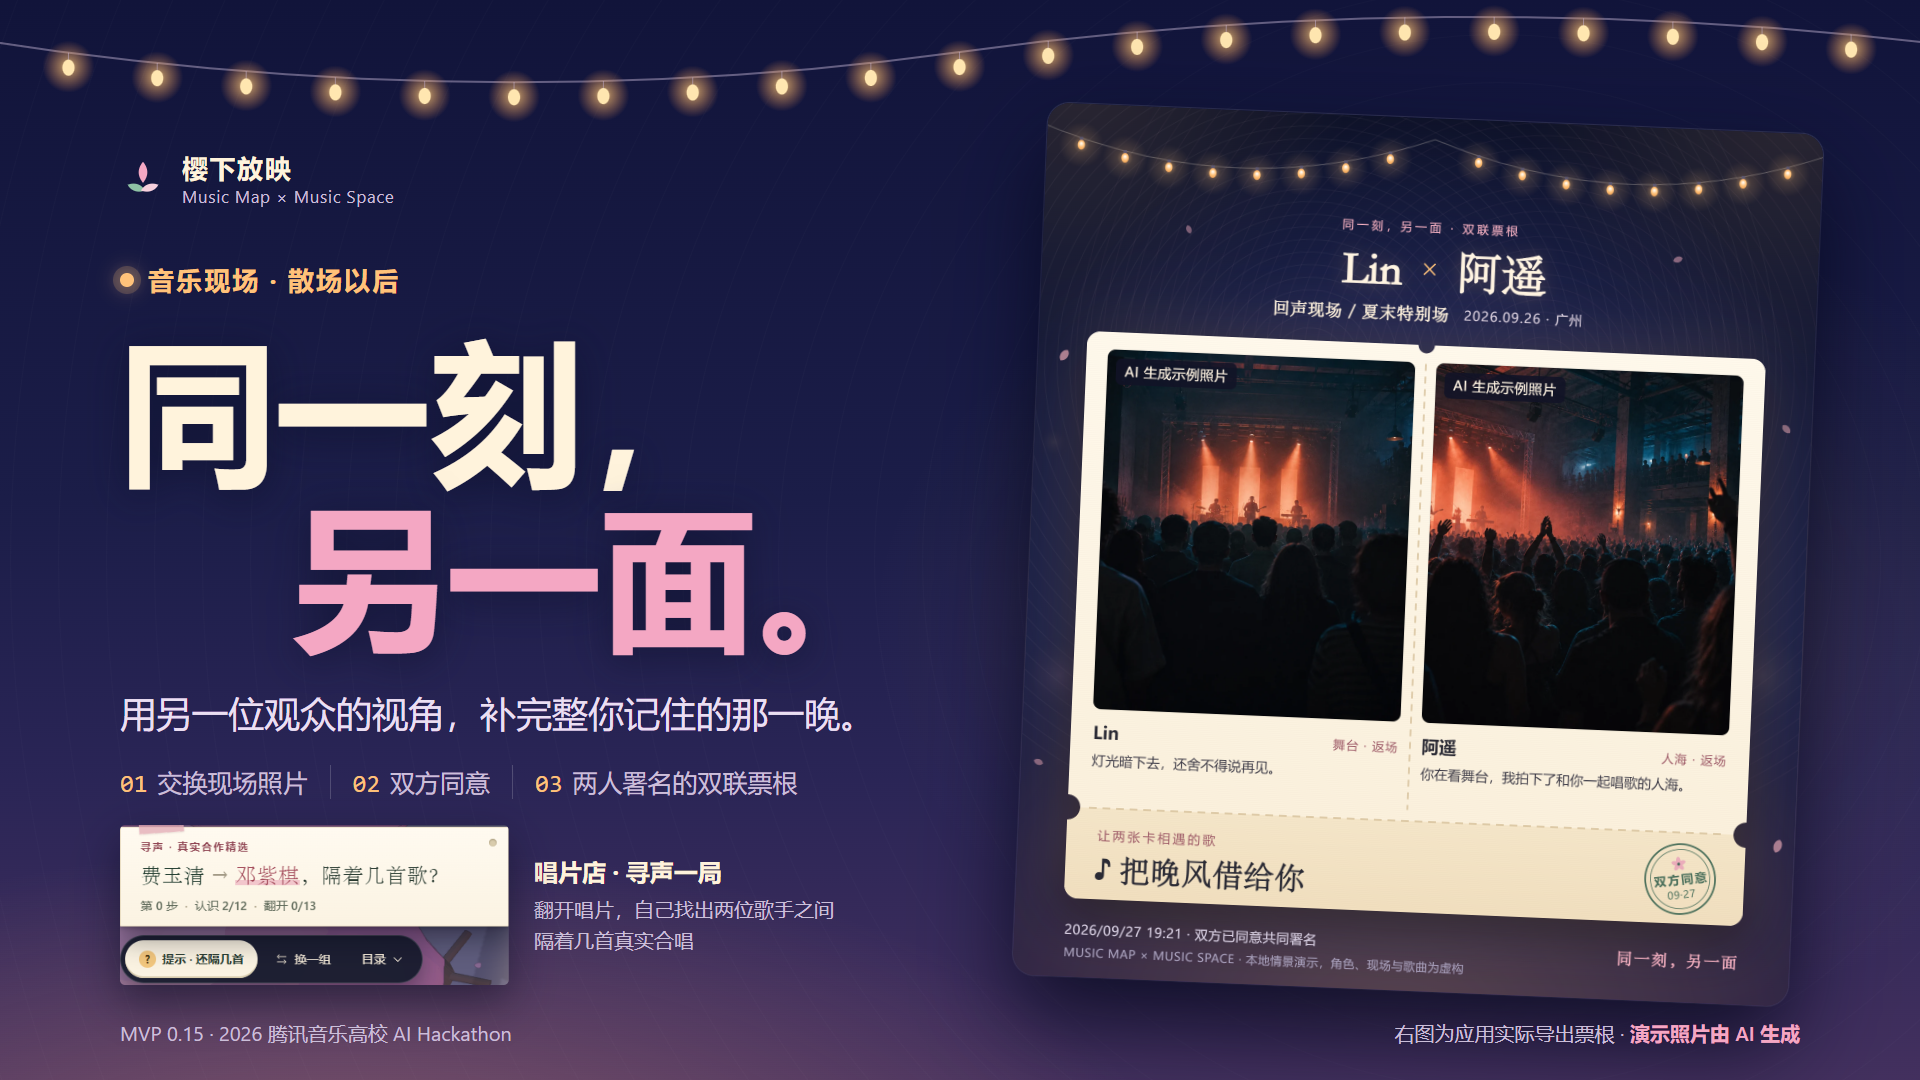
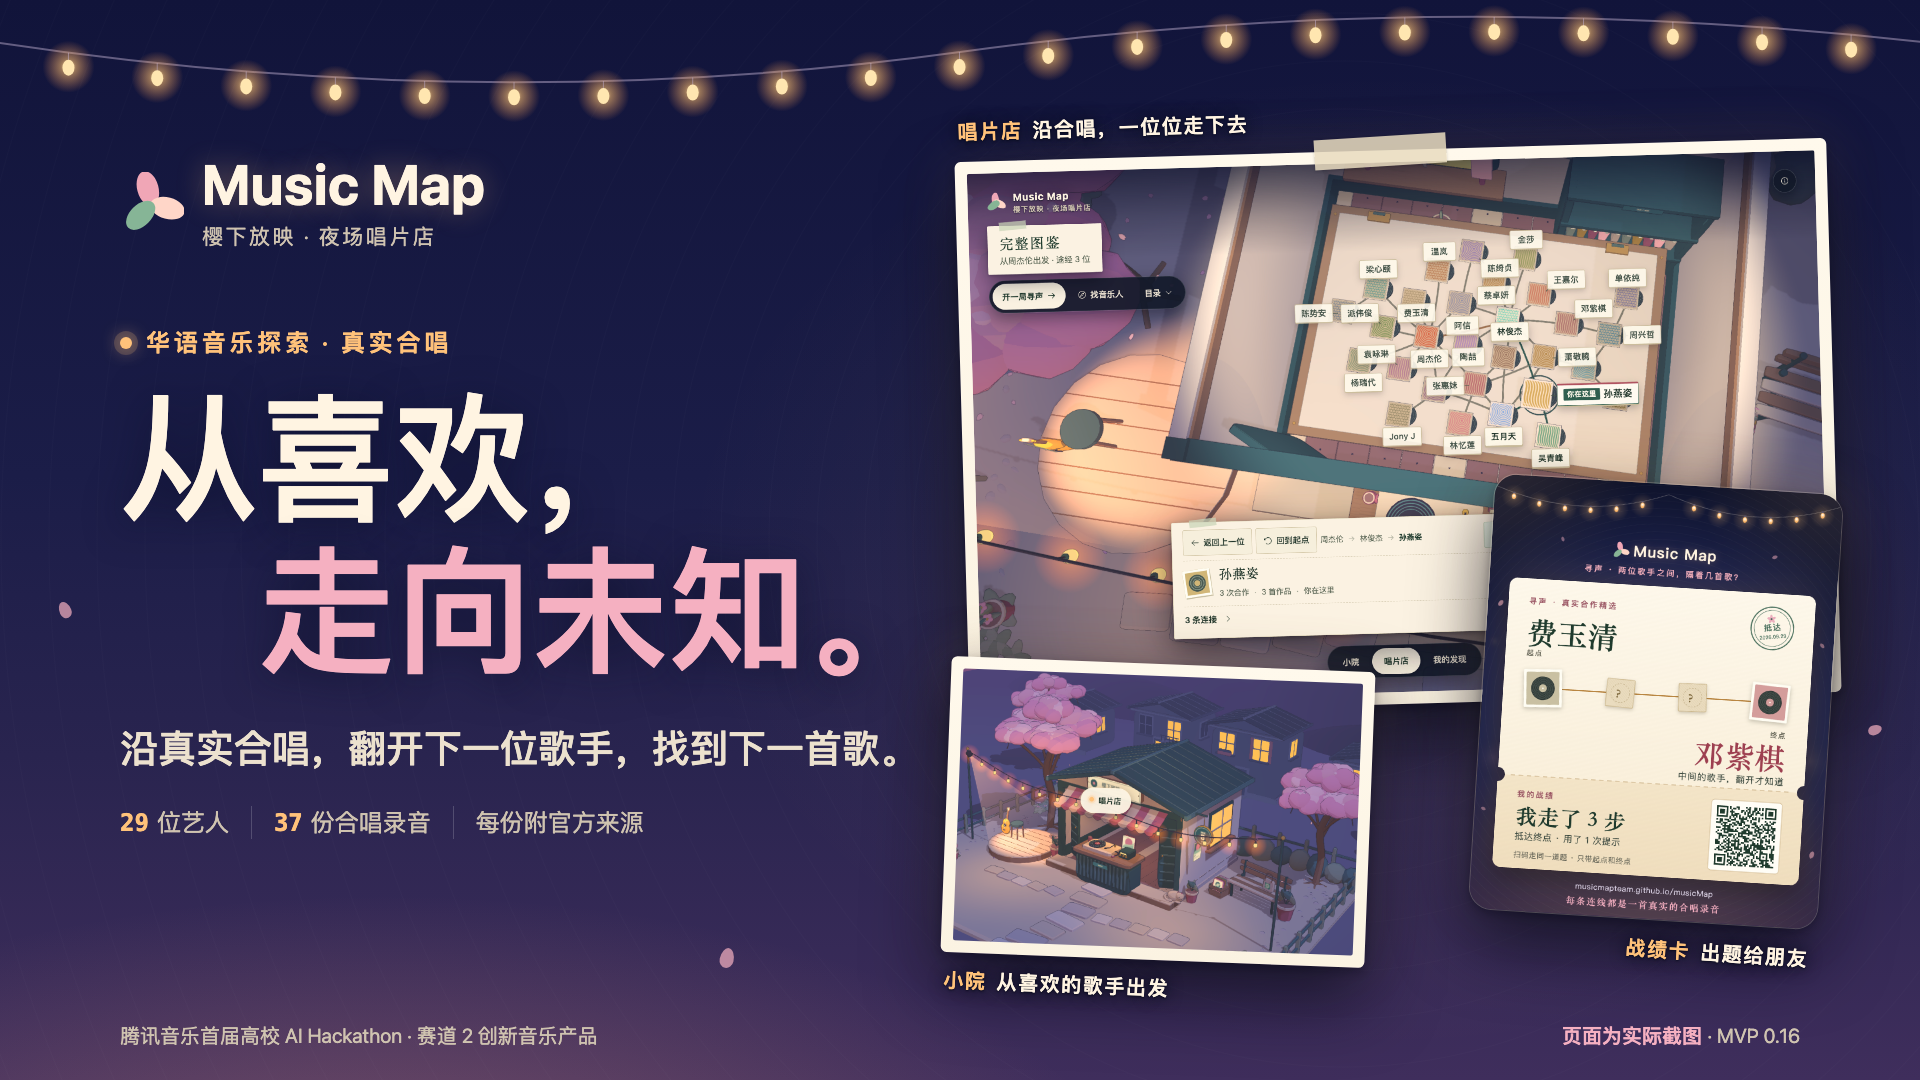
docs: add 0.16 screenshots and the Map cover
- 12 page screenshots (1440×900 and 390×844) and the two generated share cards from the real build
- New 1920×1080 cover from real screenshots (source cover-v016.html); the 0.15 cover stays in history

diff --git a/delivery/recording-source/cover-v016.html b/delivery/recording-source/cover-v016.html
@@ -1,0 +1,130 @@
+<!doctype html>
+<!-- 0.16 参赛封面源（1920×1080），Music Map 唯一主线。三张图都是应用实际画面，只做缩放、裁切和旋转，不改内容：
+     唱片桌 = docs/assets/themes/roam-desktop-v016.png（1440×900，完整图鉴自由漫游）；
+     小院 = docs/assets/themes/home-desktop-v016.png（1440×900，只裁出右侧三维小院）；
+     战绩卡 = docs/assets/themes/card-challenge-v016.png（1080×1350，应用实际导出的寻声战绩卡 PNG）。
+     在仓库根目录起本地静态服务（如 python3 -m http.server），以 1920×1080 打开 /delivery/recording-source/cover-v016.html 截图，即得 delivery/cover.png。
+     截图前确认没有浏览器扩展注入的节点。0.15 Space 封面源仍在 cover-v015.html 与 Git 历史（3dd102c）。 -->
+<html lang="zh-CN">
+<head>
+<meta charset="utf-8">
+<meta name="viewport" content="width=1920,height=1080">
+<title>Music Map · 参赛封面 0.16</title>
+<style>
+  :root {
+    --ink: #fff4e2; --ink-soft: #ece1ce; --muted: #cfc3b0; --amber: #ffc27a; --pink: #f5b0c1;
+    --paper: #fbf3e2; --paper-top: #fff9ec; --paper-edge: #fff3d9;
+    --font: -apple-system, BlinkMacSystemFont, "PingFang SC", "Microsoft YaHei", sans-serif;
+    --mono: "SF Mono", Menlo, Consolas, monospace;
+    --shadow: 0 30px 70px #020412b3, 0 4px 10px #0204124d, 0 0 60px #ffc27a1f;
+  }
+  * { box-sizing: border-box; margin: 0; padding: 0; }
+  html, body { width: 1920px; height: 1080px; overflow: hidden; }
+  body {
+    position: relative; font-family: var(--font); color: var(--ink);
+    background:
+      radial-gradient(1100px 480px at 20% 114%, #e0907e5c, transparent 70%),
+      radial-gradient(1000px 700px at 72% 52%, #ffc27a1a, transparent 70%),
+      linear-gradient(180deg, #11143a 0%, #1b1d48 44%, #29244f 70%, #3f2e5c 100%);
+  }
+  body::before {
+    content: ""; position: absolute; inset: 0; opacity: .2; pointer-events: none;
+    background: repeating-radial-gradient(circle at 70% 50%, transparent 0 46px, #ffffff14 47px, transparent 48px);
+  }
+  .lights { position: absolute; left: 0; top: 0; width: 1920px; height: 150px; }
+
+  /* Left: name, line, loop. */
+  .brand { position: absolute; left: 120px; top: 156px; display: flex; align-items: center; gap: 18px; }
+  .brand svg { width: 64px; height: 64px; flex: none; }
+  .brand b { display: block; font-size: 56px; line-height: 1; font-weight: 700; letter-spacing: .01em; text-shadow: 0 0 28px #ffc27a4d; }
+  .brand small { display: block; margin-top: 10px; font-size: 21px; color: var(--muted); letter-spacing: .12em; }
+  .copy { position: absolute; left: 120px; top: 326px; width: 860px; }
+  .kicker { display: flex; align-items: center; gap: 14px; font-size: 24px; font-weight: 600; color: var(--amber); letter-spacing: .16em; }
+  .kicker i { width: 12px; height: 12px; border-radius: 50%; background: var(--amber); box-shadow: 0 0 0 6px #ffc27a2e, 0 0 18px var(--amber); }
+  h1 { margin: 22px 0 34px; font-size: 138px; line-height: 1.1; font-weight: 800; letter-spacing: -.01em; text-shadow: 0 6px 40px #0a0d2699; }
+  h1 span { display: block; }
+  h1 span + span { margin-left: 1em; color: var(--pink); }
+  .lede { font-size: 38px; line-height: 1.5; font-weight: 500; color: var(--ink-soft); }
+  .facts { display: flex; margin-top: 30px; font-size: 24px; color: var(--muted); }
+  .facts li { list-style: none; padding: 0 22px; border-left: 1px solid #ffffff2e; }
+  .facts li:first-child { padding-left: 0; border: 0; }
+  .facts em { font-style: normal; font-family: var(--mono); font-weight: 600; color: var(--amber); margin-right: 8px; }
+
+  /* Right: real screens, laid on the night like lit paper prints. */
+  .print { position: absolute; padding: 12px; border-radius: 6px; background: linear-gradient(180deg, var(--paper-top), var(--paper)); box-shadow: var(--shadow); }
+  .print img, .print .crop { display: block; border-radius: 2px; }
+  .print figcaption { position: absolute; font-size: 20px; font-weight: 600; letter-spacing: .08em; color: var(--ink); white-space: nowrap; text-shadow: 0 1px 2px #070a1acc, 0 0 16px #070a1a; }
+  .print figcaption i { font-style: normal; color: var(--amber); margin-right: 10px; }
+  .tape { position: absolute; width: 132px; height: 30px; background: #e9dcc0d9; box-shadow: 0 1px 3px #0204122e; }
+
+  .table { left: 962px; top: 150px; transform: rotate(-1.6deg); }
+  .table img { width: 848px; height: 530px; }
+  .table figcaption { left: 4px; top: -44px; }
+  .table .tape { left: 360px; top: -14px; transform: rotate(-2deg); }
+
+  .yard { left: 946px; top: 664px; transform: rotate(2.2deg); }
+  .yard .crop { width: 400px; height: 272px; background: url(../../docs/assets/themes/home-desktop-v016.png) -354px -139px / 835.2px 522px no-repeat; }
+  .yard figcaption { left: 4px; bottom: -42px; }
+
+  .card { left: 1482px; top: 484px; transform: rotate(3.6deg); padding: 0; background: none; border-radius: 22px; }
+  .card img { width: 348px; height: 435px; border-radius: 22px; box-shadow: 0 0 0 1px #fff3d93d; }
+  .card figcaption { right: 6px; bottom: -44px; }
+  .petal { position: absolute; width: 14px; height: 20px; border-radius: 50% 50% 50% 50% / 60% 60% 40% 40%; background: #f5b0c1; opacity: .7; }
+
+  .foot { position: absolute; left: 120px; right: 120px; bottom: 30px; display: flex; justify-content: space-between; font-size: 20px; color: var(--muted); }
+  .foot b { color: var(--pink); font-weight: 600; }
+</style>
+</head>
+<body>
+  <svg class="lights" viewBox="0 0 1920 150" aria-hidden="true">
+    <defs><radialGradient id="g"><stop offset="0" stop-color="#ffe2aa"/><stop offset=".3" stop-color="#ffbe6e" stop-opacity=".55"/><stop offset="1" stop-color="#ff9650" stop-opacity="0"/></radialGradient></defs>
+    <path d="M-20 40 Q 480 118 960 52 T 1940 44" fill="none" stroke="#c9b8d8" stroke-opacity=".45" stroke-width="2"/>
+    <g id="bulbs"></g>
+  </svg>
+
+  <div class="brand">
+    <svg viewBox="-24 -24 48 48" aria-hidden="true"><g transform="rotate(-15)">
+      <ellipse cx="0" cy="-12" rx="8" ry="13.2" fill="#f0a6b6"/>
+      <ellipse cx="0" cy="-12" rx="8" ry="13.2" fill="#ffd6c8" transform="rotate(120)"/>
+      <ellipse cx="0" cy="-12" rx="8" ry="13.2" fill="#86b596" transform="rotate(240)"/>
+    </g></svg>
+    <div><b>Music Map</b><small>樱下放映 · 夜场唱片店</small></div>
+  </div>
+
+  <section class="copy">
+    <p class="kicker"><i></i>华语音乐探索 · 真实合唱</p>
+    <h1><span>从喜欢，</span><span>走向未知。</span></h1>
+    <p class="lede">沿真实合唱，翻开下一位歌手，找到下一首歌。</p>
+    <ol class="facts"><li><em>29</em>位艺人</li><li><em>37</em>份合唱录音</li><li>每份附官方来源</li></ol>
+  </section>
+
+  <figure class="print table">
+    <span class="tape" aria-hidden="true"></span>
+    <img src="../../docs/assets/themes/roam-desktop-v016.png" alt="唱片店完整图鉴：从周杰伦出发自由漫游的实际截图">
+    <figcaption><i>唱片店</i>沿合唱，一位位走下去</figcaption>
+  </figure>
+  <figure class="print yard">
+    <div class="crop" role="img" aria-label="首页三维夜场小院的实际截图（裁切）"></div>
+    <figcaption><i>小院</i>从喜欢的歌手出发</figcaption>
+  </figure>
+  <figure class="print card">
+    <img src="../../docs/assets/themes/card-challenge-v016.png" alt="应用实际导出的寻声战绩卡">
+    <figcaption><i>战绩卡</i>出题给朋友</figcaption>
+  </figure>
+
+  <i class="petal" style="left:58px;top:600px;transform:rotate(-24deg) scale(.85)" aria-hidden="true"></i>
+  <i class="petal" style="left:1868px;top:720px;transform:rotate(70deg) scale(.7)" aria-hidden="true"></i>
+  <i class="petal" style="left:720px;top:948px;transform:rotate(12deg)" aria-hidden="true"></i>
+
+  <footer class="foot"><span>腾讯音乐首届高校 AI Hackathon · 赛道 2 创新音乐产品</span><span><b>页面为实际截图</b> · MVP 0.16</span></footer>
+
+  <script>
+    const path = document.querySelector('.lights path'); const g = document.getElementById('bulbs');
+    const len = path.getTotalLength();
+    for (let i = 1; i < 22; i++) {
+      const p = path.getPointAtLength(len * i / 22);
+      g.insertAdjacentHTML('beforeend', `<circle cx="${p.x}" cy="${p.y + 14}" r="26" fill="url(#g)"/><line x1="${p.x}" y1="${p.y}" x2="${p.x}" y2="${p.y + 8}" stroke="#c9b8d8" stroke-opacity=".5"/><ellipse cx="${p.x}" cy="${p.y + 15}" rx="6" ry="8" fill="#ffe6b0"/>`);
+    }
+  </script>
+</body>
+</html>
